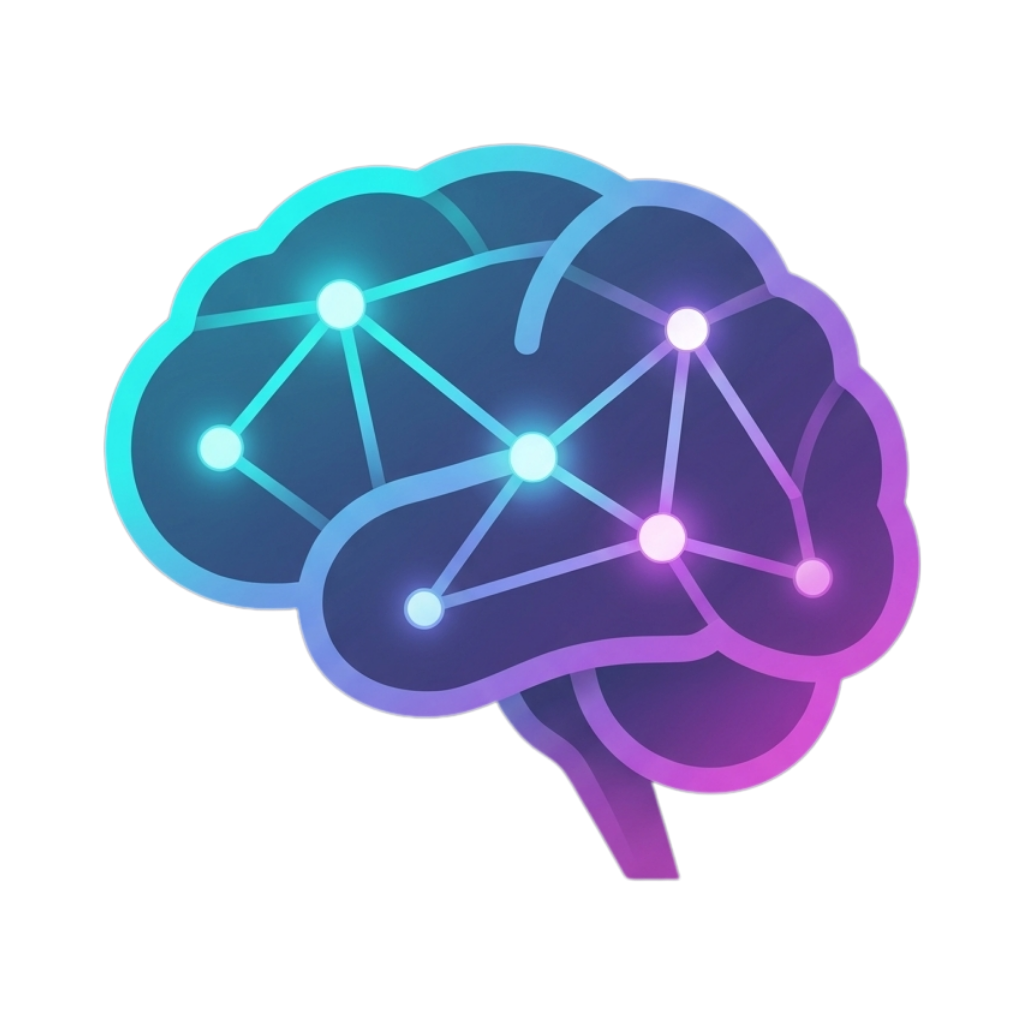
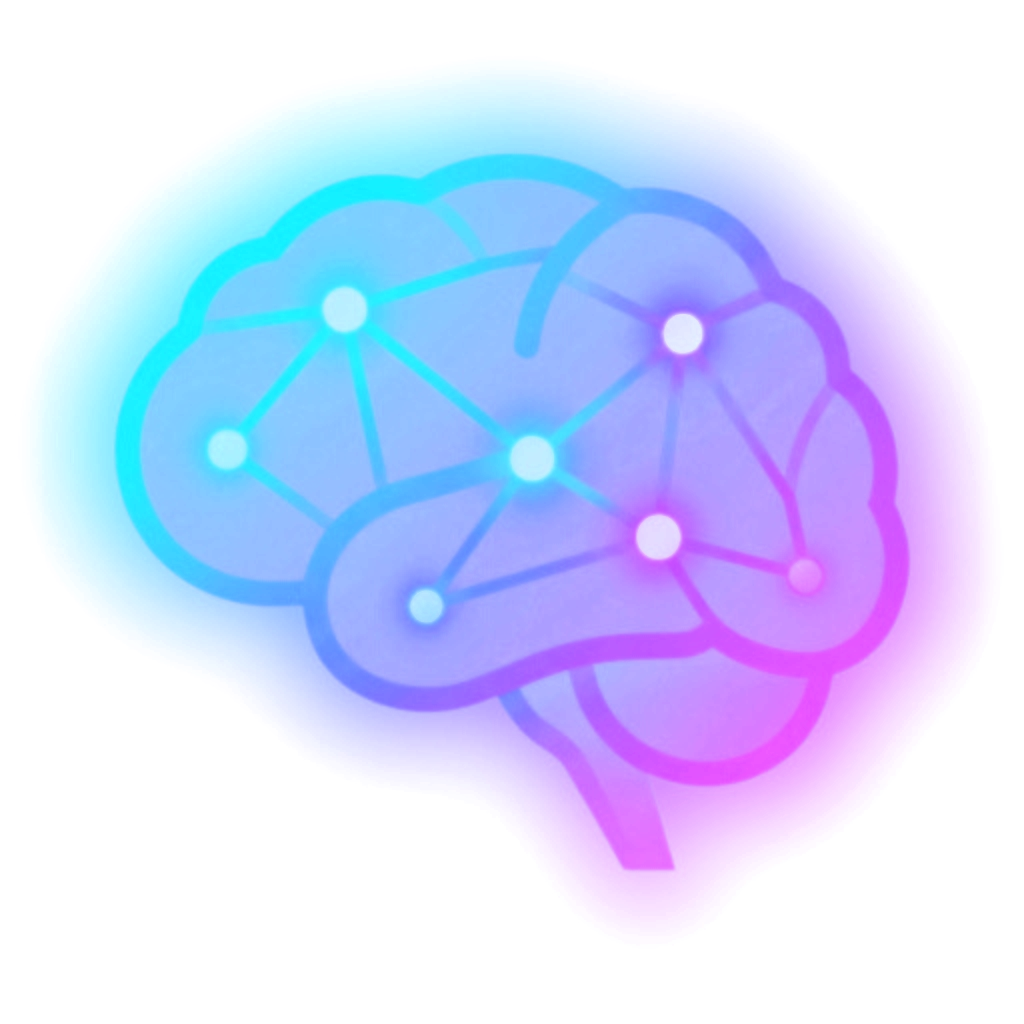
build 21 - 0.50.1

diff --git a/style.css b/style.css
@@ -196,7 +196,6 @@ header {
 
 .brand:hover .logo-svg, .brand:hover .logo-png {
   transform: rotate(5deg) scale(1.06);
-  filter: drop-shadow(0 0 12px rgba(124, 58, 237, 0.45));
 }
 
 .logo-png, .logo-svg {
@@ -204,8 +203,7 @@ header {
   height: 44px;
   border-radius: 12px;
   object-fit: contain;
-  transition: transform 0.3s var(--ease-premium), filter 0.3s var(--ease-premium);
-  box-shadow: 0 4px 18px rgba(124, 58, 237, 0.2);
+  transition: transform 0.3s var(--ease-premium);
 }
 
 .brand-text strong {